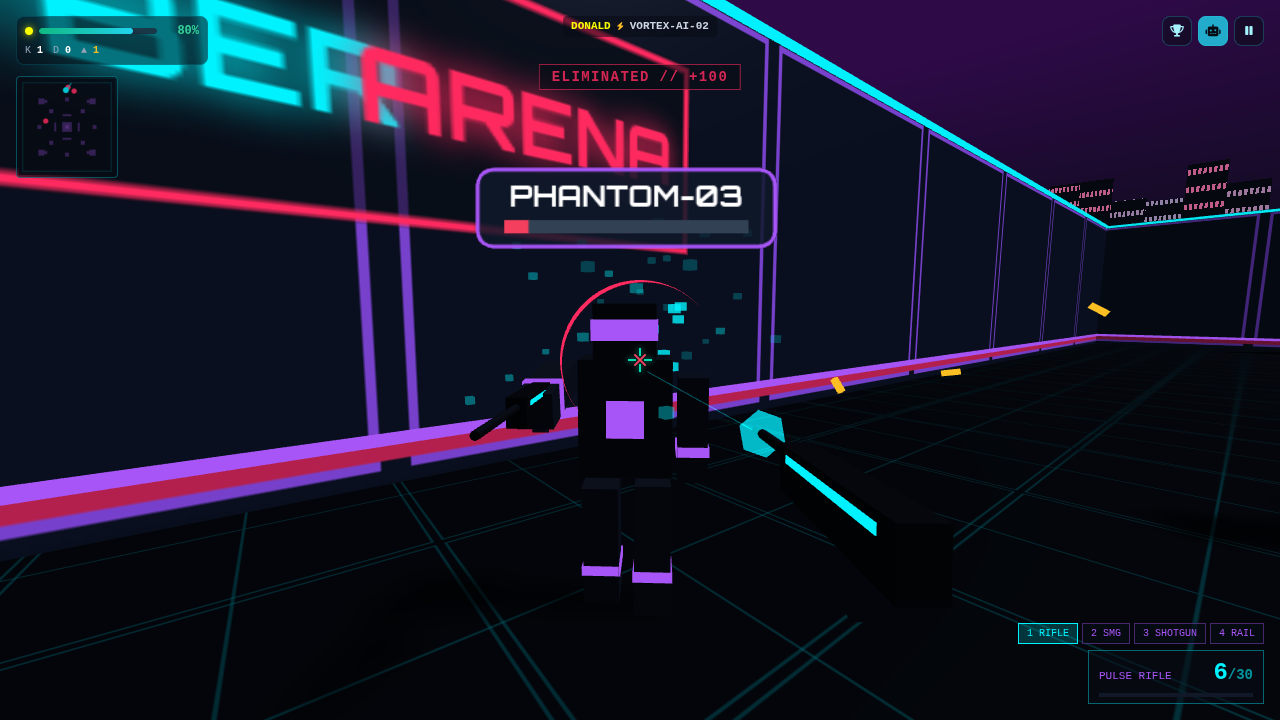
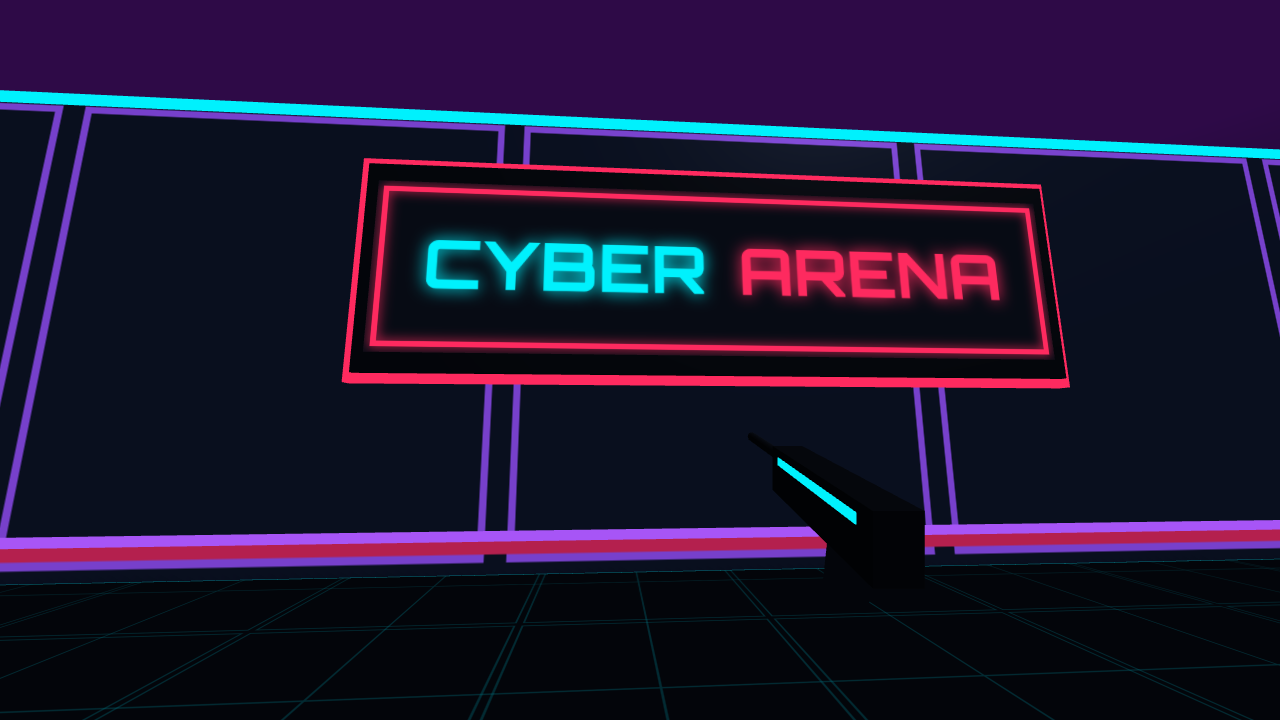
CyberArena: clean wall sign (solid backing, no seam, spaced CYBER ARENA, off-axis pillars), new cover

diff --git a/cyberarena/index.html b/cyberarena/index.html
@@ -527,7 +527,8 @@
             // Symmetrical Pillars
             const pillarCoords = [
                 [-16, -16], [16, -16], [-16, 16], [16, 16],
-                [-28, 0], [28, 0], [0, -28], [0, 28]
+                // off-axis so nothing stands between the centre and the wall signs
+                [-28, -9], [28, 9], [9, -28], [-9, 28]
             ];
             pillarCoords.forEach(([px, pz]) => {
                 addBoxObstacle(px, 3.5, pz, 4, 7, 4, 0x1e293b, 0x00f2fe);
@@ -1943,6 +1944,7 @@
                 ctx.strokeRect(8, 8, s - 16, s - 16);
                 ctx.fillStyle = '#ff2a5f'; ctx.fillRect(0, s - 20, s, 10);
             }, 12, 1);
+            wallTex.offset.x = 0.5; // panel centre (not a seam) lines up with the wall-centre sign
             const panelTex = createCanvasTexture((ctx, s) => {
                 ctx.fillStyle = '#111a2e'; ctx.fillRect(0, 0, s, s);
                 ctx.strokeStyle = 'rgba(0,242,254,0.5)'; ctx.lineWidth = 3; ctx.strokeRect(6, 6, s - 12, s - 12);
@@ -1991,19 +1993,38 @@
 
             // Holo signs on the perimeter walls
             const signs = [];
-            const signTex = createCanvasTexture((ctx, s) => {
-                ctx.clearRect(0, 0, s, s);
-                ctx.fillStyle = 'rgba(7,11,20,0.6)'; ctx.fillRect(0, 88, s, 80);
-                ctx.strokeStyle = '#ff2a5f'; ctx.lineWidth = 3; ctx.strokeRect(2, 88, s - 4, 80);
-                ctx.font = 'bold 30px Orbitron, sans-serif'; ctx.textAlign = 'center';
-                ctx.fillStyle = '#00f2fe'; ctx.shadowColor = '#00f2fe'; ctx.shadowBlur = 12;
-                ctx.fillText('CYBER', 74, 140); ctx.fillStyle = '#ff2a5f'; ctx.shadowColor = '#ff2a5f'; ctx.fillText('ARENA', 184, 140);
-            });
-            const signMat = new THREE.MeshBasicMaterial({ map: signTex, transparent: true, side: THREE.DoubleSide, depthWrite: false });
-            const inner = ARENA_SIZE / 2 - 1.1;
-            [[0, -inner, 0], [0, inner, Math.PI], [-inner, 0, Math.PI / 2], [inner, 0, -Math.PI / 2]].forEach(([x, z, ry]) => {
-                const m = new THREE.Mesh(new THREE.PlaneGeometry(10, 10), signMat);
-                m.position.set(x, 5, z); m.rotation.y = ry; scene.add(m); signs.push(m);
+            // Wide dedicated canvas so CYBER and ARENA get a real gap (no overlap).
+            const sc = document.createElement('canvas'); sc.width = 1024; sc.height = 256;
+            {
+                const ctx = sc.getContext('2d');
+                ctx.fillStyle = '#070b14'; ctx.fillRect(0, 0, 1024, 256);
+                ctx.strokeStyle = '#ff2a5f'; ctx.lineWidth = 8; ctx.shadowColor = '#ff2a5f'; ctx.shadowBlur = 16; ctx.strokeRect(12, 12, 1000, 232);
+                ctx.font = 'bold 120px Orbitron, sans-serif'; ctx.textBaseline = 'middle';
+                const gap = 56, w1 = ctx.measureText('CYBER').width, w2 = ctx.measureText('ARENA').width;
+                const scale = Math.min(1, 880 / (w1 + gap + w2));
+                ctx.save(); ctx.translate(512, 132); ctx.scale(scale, scale);
+                const x0 = -(w1 + gap + w2) / 2;
+                ctx.textAlign = 'left';
+                ctx.fillStyle = '#00f2fe'; ctx.shadowColor = '#00f2fe'; ctx.shadowBlur = 24; ctx.fillText('CYBER', x0, 0);
+                ctx.fillStyle = '#ff2a5f'; ctx.shadowColor = '#ff2a5f'; ctx.fillText('ARENA', x0 + w1 + gap, 0);
+                ctx.restore();
+            }
+            const signTex = new THREE.CanvasTexture(sc);
+            signTex.anisotropy = Math.min(4, renderer.capabilities.getMaxAnisotropy());
+            const signMat = new THREE.MeshBasicMaterial({ map: signTex, polygonOffset: true, polygonOffsetFactor: -2, polygonOffsetUnits: -2 });
+            const backMat = new THREE.MeshStandardMaterial({ color: 0x05080f, roughness: 0.6, metalness: 0.3 });
+            const frameMat = new THREE.MeshBasicMaterial({ color: 0xff2a5f });
+            const wallFace = ARENA_SIZE / 2 - 1; // inner face of the perimeter wall
+            [[0, -1, 0], [0, 1, Math.PI], [-1, 0, Math.PI / 2], [1, 0, -Math.PI / 2]].forEach(([sx, sz, ry]) => {
+                const g = new THREE.Group();
+                const back = new THREE.Mesh(new THREE.BoxGeometry(12.2, 3.6, 0.3), backMat);
+                back.position.z = 0.15; g.add(back);                    // solid backing, front face 0.3 off the wall
+                const frame = new THREE.Mesh(new THREE.BoxGeometry(12.5, 3.9, 0.2), frameMat);
+                frame.position.z = 0.1; g.add(frame);                   // thin neon rim peeking around the backing
+                const face = new THREE.Mesh(new THREE.PlaneGeometry(11.8, 11.8 / 4), signMat);
+                face.position.z = 0.33; g.add(face);                    // 3 cm in front of the backing: no z-fighting
+                g.position.set(sx * wallFace, 5, sz * wallFace); g.rotation.y = ry;
+                scene.add(g); signs.push(g);
             });
 
             // Neon city skybox (procedural shader)
@@ -2038,7 +2059,7 @@
                 tick(dt) {
                     skyMat.uniforms.uTime.value += dt;
                     const tt = skyMat.uniforms.uTime.value;
-                    signs.forEach((s, i) => { s.position.y = 5 + Math.sin(tt * 2 + i) * 0.25; });
+                    signs.forEach((s, i) => { s.position.y = 5 + Math.sin(tt * 1.5 + i) * 0.08; });
                     pads.forEach(p => { p.ring.scale.setScalar(1 + Math.sin(tt * 4) * 0.08); });
                     pickups.forEach(p => {
                         if (p.respawn > 0) { p.respawn -= dt; if (p.respawn <= 0) p.mesh.visible = true; return; }
@@ -2254,6 +2275,7 @@
                 yawObject.rotation.y = localPlayer.yaw; pitchObject.rotation.x = localPlayer.pitch;
                 return Math.round(bd);
             };
+            window.__caPose = (x, z, yawDeg, pitchDeg) => { localPlayer.x = x; localPlayer.z = z; localPlayer.yaw = yawDeg * Math.PI / 180; localPlayer.pitch = pitchDeg * Math.PI / 180; yawObject.position.set(x, localPlayer.y, z); yawObject.rotation.y = localPlayer.yaw; pitchObject.rotation.x = localPlayer.pitch; };
             window.__caYawAdd = (deg) => { localPlayer.yaw += deg * Math.PI / 180; yawObject.rotation.y = localPlayer.yaw; };
         }
 
